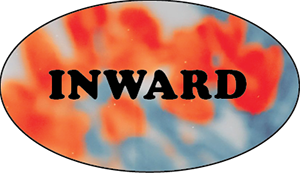
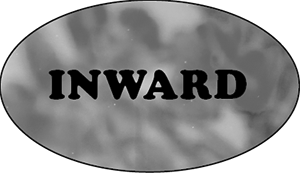
Add files via upload

diff --git a/index.html b/index.html
@@ -3,66 +3,80 @@
     <title>Post Capitalism Billboard</title>
     <link rel="stylesheet" href="style.css" />
     <style>
-        #spiral {
-            width: 25px; height: 25px;
-            background: url('spiral.png') no-repeat left top;
-        }
-        #spiral { background-position: -25px 0px }
-        #spiral:hover {
-            background: url('smiley.gif');
-        }
         #inward {
             width: 300px; height: 173px;
-            background: url('inward-300.png');
+            background: url('inward-300-invert.png');
             margin: auto;
         }
         #inward:hover {
-            background:url('outward-300.png');
+            background:url('outward-300-invert.png');
             margin: auto;
         }
     </style>
 </head>
 <body>
-<div id="inward"></div>
-    <p>
-        <h3 class="button">
-            <a href="one.html">Press 1
-            </a>
-        </h3>
-        <br> 
-        To describe what a post-capitalist world looks like to you.
-        <br>
-        <br>
-        <h3 class="button">
-            <a href="two.html">
+    <div class="grid-container">
+        <div class="grid-item">
+            <img src="billboard-CH-invert.jpg" alt="post capitalist billboard" width="100%">
+        </div>
+        <div class="grid-item">
+            <h3 class="button">
+                <a href="one.html">Press 1
+                </a>
+            </h3>
+                <br> 
+                To describe what a post-capitalist world looks like to you.
+                <br>
+                <br>
+        </div>
+        <div class="grid-item">
+             <h3 class="button">
+                <a href="two.html">
                 Press 2
+                </a>
+            </h3>
+                <br>
+            To share your biggest dream for the future.
+                <br>
+                <br>
+            </div>
+        <div class="grid-item">
+            <h3 class="button">
+                <a href="three.html">
+                Press 3 
             </a>
-        </h3>
-        <br>
-        To share your biggest dream for the future.
-        <br>
-        <br>
-        <h3 class="button">
-        Press 3 
-        </h3>
-        <br>
-        To offer an idea you believe could subvert capitalist norms.
-        <br>
-        <br>
-        <h3 class="button">
-        Press 4 
-        </h3>
-        <br>
-        To describe what freedom means to you beyond capitalism.
-        <br>
-        <br>
-        <h3 class="button">
-        Press 5.
-        </h3>
-        <br>
-        To ask a question.
-        <br>
-        <br>
+            </h3>
+                <br>
+                To offer an idea you believe could subvert capitalist norms.
+                <br>
+                <br>
+        </div>
+        <div class="grid-item">
+            <h3 class="button">
+                <a href="four.html">
+                Press 4 
+                </a>
+                </h3>
+                <br>
+                To describe what freedom means to you beyond capitalism.
+                <br>
+                <br>
+        </div>
+        <div class="grid-item">
+            <h3 class="button">
+                Press 5
+                </h3>
+                <br>
+                To ask a question.
+                <br>
+                <br>
+        </div>
+      </div><p>
+        
+    
+        
+    
+
     </p>
     <div id="inward"></div>
 </body>

diff --git a/three.html b/three.html
@@ -1,0 +1,19 @@
+<!DOCTYPE html>
+    <head>
+        <title>3</title>
+        <link rel="stylesheet" href="style.css" />
+        <style>
+            body {
+                background-image: url("gradient3.jpg");
+                width: 100%;
+                margin:auto;
+                }
+        </style>
+    </head>
+    <body>
+        <div class="grid-item">
+        <h1>To offer an idea you believe could subvert capitalist norms.</h1>
+        </div>
+    </body>
+
+</html>

diff --git a/four.html b/four.html
@@ -1,0 +1,19 @@
+<!DOCTYPE html>
+    <head>
+        <title>4</title>
+        <link rel="stylesheet" href="style.css" />
+        <style>
+            body {
+                background-image: url("gradient4.jpg");
+                width: 100%;
+                margin:auto;
+                }
+        </style>
+    </head>
+    <body>
+        <div class="grid-item">
+        <h1>To share a dream for collective futures.</h1>
+        </div>
+    </body>
+
+</html>

diff --git a/one.html b/one.html
@@ -2,10 +2,18 @@
     <head>
         <title>1</title>
         <link rel="stylesheet" href="style.css" />
+        <style>
+           body {
+            background-image: url("gradient1.jpg");
+                width: 100%;
+                margin:auto;
+            }
+        </style>
     </head>
     <body>
+        <div class="grid-item">
         <h1>Describe what a post-capitalist world looks like to you.</h1>
-
+</div>  
     </body>
 
 </html>

diff --git a/two.html b/two.html
@@ -2,9 +2,18 @@
     <head>
         <title>2</title>
         <link rel="stylesheet" href="style.css" />
+        <style>
+            body {
+                background-image: url("gradient2.jpg");
+                width: 100%;
+                margin:auto;
+                }
+        </style>
     </head>
     <body>
+        <div class="grid-item">
         <h1>What is your biggest dream for the future?</h1>
+        </div>
 
     </body>
 

diff --git a/style.css b/style.css
@@ -49,6 +49,7 @@ a.hover {
     background-image: linear-gradient(black, white);
 }
 
-#inward {
-    align-content:center;
-}
+.grid-container {
+    display: grid;
+    border:none;
+  }
